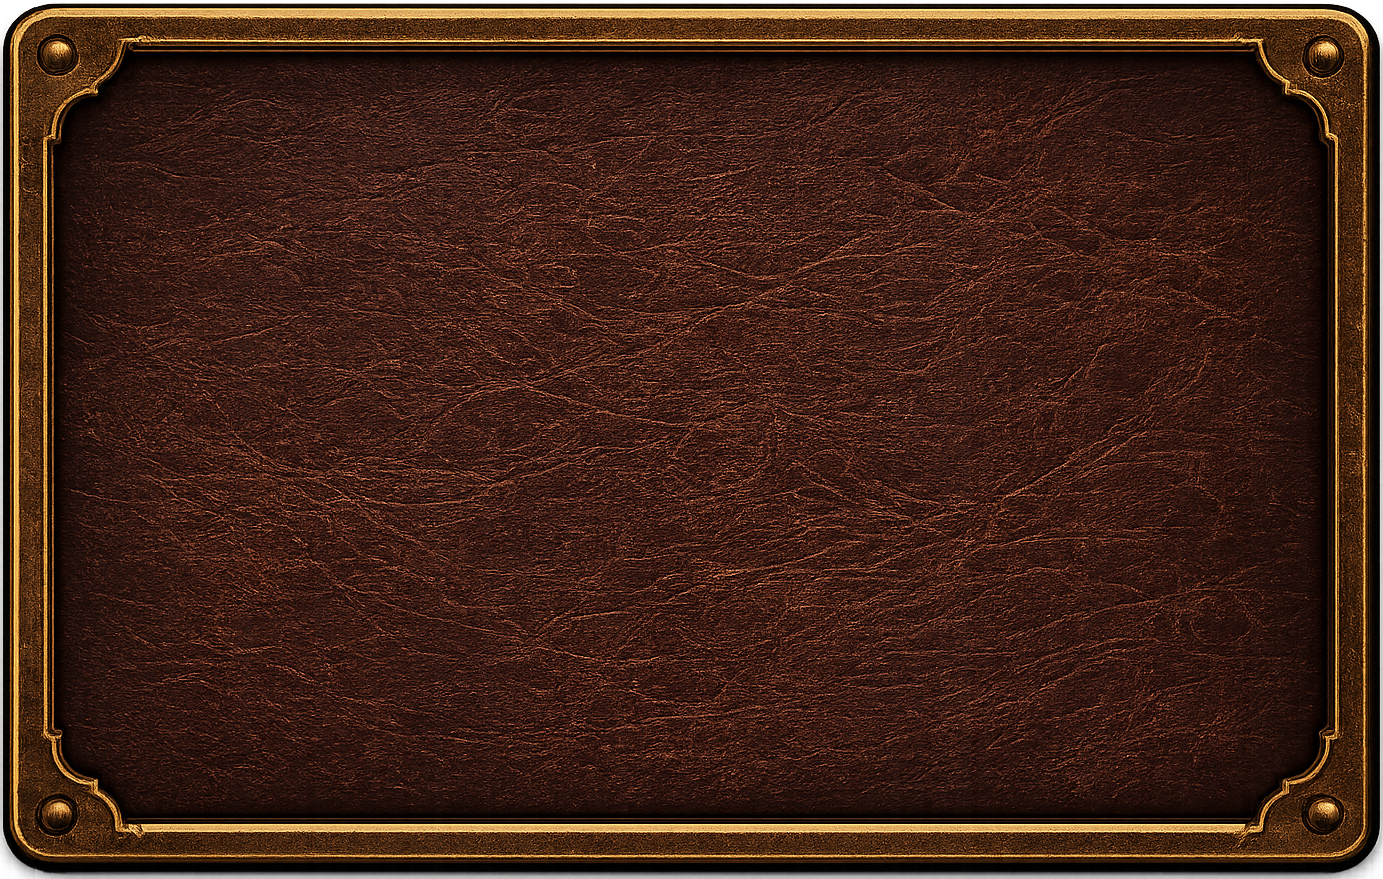
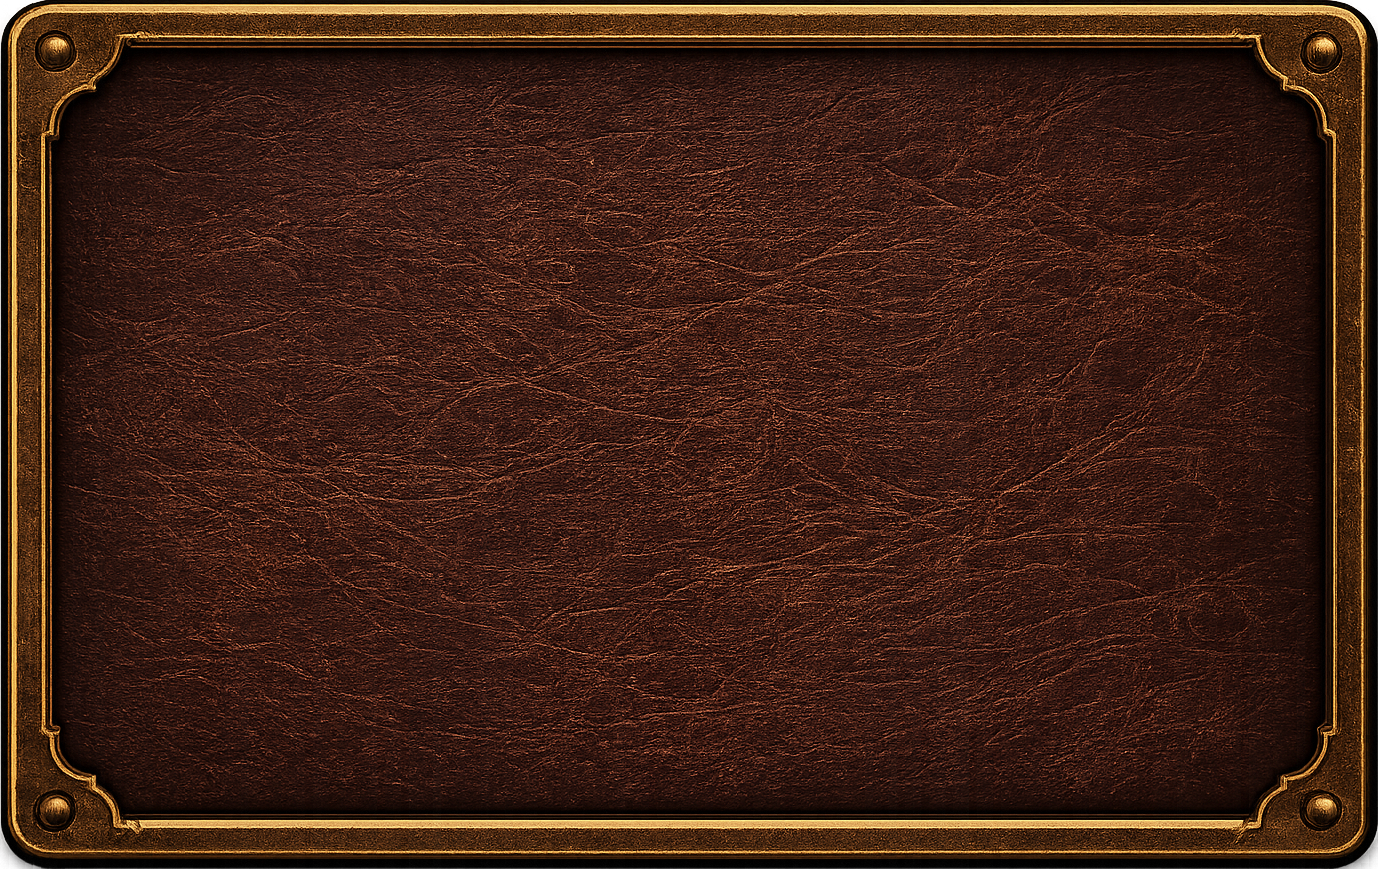
Update dialog portrait frame assets

diff --git a/style.css b/style.css
@@ -1975,8 +1975,8 @@ body {
 .sidebar-portrait-frame {
   position: relative;
   flex: 0 0 auto;
-  width: 180px;
-  aspect-ratio: 2 / 3;
+  height: 254.629px;
+  aspect-ratio: 527 / 835;
   overflow: hidden;
   pointer-events: none;
 }
@@ -1986,7 +1986,7 @@ body {
   position: absolute;
   inset: 0;
   z-index: 2;
-  background: url("assets/layout/1-3-T.png") center / contain no-repeat;
+  background: url("assets/layout/1-3-T3.png") center / contain no-repeat;
   pointer-events: none;
 }
 
@@ -1996,11 +1996,11 @@ body {
   top: 50%;
   z-index: 1;
   display: block;
-  width: 96%;
-  height: 96%;
+  width: 86%;
+  height: 93.5%;
   object-fit: cover;
   object-position: center top;
-  clip-path: ellipse(45% 49% at 50% 50%);
+  clip-path: inset(0 round 8px);
   transform: translate(-50%, -50%);
 }
 
@@ -2029,7 +2029,7 @@ body {
   width: 225px;
   aspect-ratio: 2 / 3;
   background:
-    url("assets/layout/1-3-T.png") center / contain no-repeat;
+    url("assets/layout/1-3-T3.png") center / contain no-repeat;
   pointer-events: none;
   transform: translateY(-50%);
   z-index: 3;
